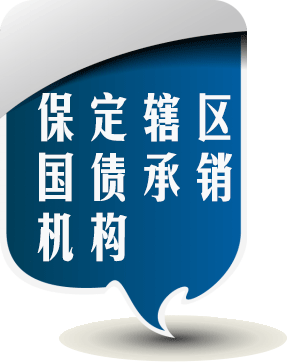
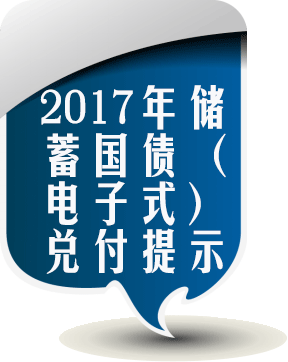
complete

Changed region(s): [[0.125, 0.2431, 0.4688, 0.7597], [0.6562, 0.2127, 0.8125, 0.7597], [0.5, 0.2127, 0.625, 0.7597]]

diff --git a/css/style.css b/css/style.css
@@ -24,7 +24,7 @@ div{ transition:all 0.8s linear 0.5s; -webkit-transition:all 0.8s linear 0.5s;}
 .page_guide{ position:absolute; z-index:99; width:100%; height:100%;}
 .page_load{ position:absolute; z-index:2; width:100%; height:100%; background:url(../img/load_bg.jpg) no-repeat; background-size:cover;}
 .page_load_info{margin-top:50%;text-align: center;}
-.page_load_info>img{
+.page_load_info img{
 	width: 100px;
 	animation: spin 2s linear infinite;
 }
@@ -32,7 +32,7 @@ div{ transition:all 0.8s linear 0.5s; -webkit-transition:all 0.8s linear 0.5s;}
 	0% { transform: rotate(0deg); }
 	100% { transform: rotate(360deg); }
 }
-.page_load_num{ position:absolute; top:50%; left:50%; width:100%; transform:translate(-50%,-50%); text-align:center; font-size:44px; color:#000; font-family:Arial;}
+.page_load_num{ position:absolute; top:40%; left:50%; width:100%; transform:translate(-50%,-50%); text-align:center; font-size:44px; color:#000; font-family:Arial;}
 .page_smArea{ position:absolute; z-index:3; opacity:0; width:100%; height:100%; transition:0.5s linear 0s; background:url(../images/page_load.jpg) no-repeat; background-size:cover;}
 .page_smArea .tg_btn{ position:absolute; right:5.6%; top:3.9%; width:11.47%;}
 .page_smArea .tx{ position:absolute; top:16.6%; left:31.33%; width:37.2%; transition:0.5s linear 0s;}
@@ -206,9 +206,10 @@ div{ transition:all 0.8s linear 0.5s; -webkit-transition:all 0.8s linear 0.5s;}
 }
 .pg5>div.wri04>p{
 	color: black;
-	top:26%;
+	top:34%;
 	width: 60%;
 	right: 10%;
+	font-size: .8rem;
 }
 .pg-table{
 	border:1px solid #fff;
@@ -237,8 +238,13 @@ div{ transition:all 0.8s linear 0.5s; -webkit-transition:all 0.8s linear 0.5s;}
 	/*top: 0;
 	right: auto;
 	left: 0;*/
-	width: 36%;
+	width: 100%;
+	padding-top: 20px;
 	position: static;
+	text-align: right;
+}
+.pg6>div.wri04>img{
+	width: 36%;
 }
 
 .pg6>div.wri04>p{
@@ -249,26 +255,33 @@ div{ transition:all 0.8s linear 0.5s; -webkit-transition:all 0.8s linear 0.5s;}
 	left: 20%;
 }
 .pg7>div.wri01{
-	top:34%;
-	width: 98%;
+	/*top:34%;
 	left: auto;
-	right: 0;
+	right: 0;*/
+	width: 100%;
+	position: static;
 
 }
 .pg7>div.wri04{
-	top: 6%;
-	width: 40%;
+	/*top: 6%;
 	right: 0;
-	left: auto;
+	left: auto;*/
+	width: 100%;
+	position: static;
+	padding-top: 20px;
+	text-align: left;
 }
-.pg7>div.wri04>p{
+.pg7>div.wri04>img{
+	width: 40%;
+}
+/*.pg7>div.wri04>p{
 	font-weight: bold;
 	top:24%;
 	width: 66%;
 	left: auto;
 	right: 20%;
 	transform: rotate(13deg);
-}
+}*/
 
 .pg8>div.wri01>p{
 	color: black;

diff --git a/index.php b/index.php
@@ -77,8 +77,13 @@
 	<div class="page_guide">
         <div class="page_load">
             <div class="page_load_info">
-                <img src="img/load.jpg">
-                <div class="page_load_num" id="page_load_num">0%</div>
+
+                <div class="page_load_num" >
+					<div>
+						<img src="img/load.jpg">
+					</div>
+					<div id="page_load_num">0%</div>
+				</div>
             </div>
         </div>
     </div>
@@ -109,20 +114,10 @@
 			<div class="sec sec3 pg3">
 				<div class="posDiv wri wri01">
 					<img src="img/note7.png" width="100%">
-					<!--<p>
-							中国工商银行股份有限公司 <br>
-							中国农业银行股份有限公司<br>
-							中国银行股份有限公司<br>
-							中国建设银行股份有限公司<br>
-							交通银行股份有限公司<br>
-							中信银行股份有限公司<br>
-							中国光大银行股份有限公司
-					</p>-->
 				</div>
 				<div class="posDiv r02"><img src="img/man5.png" width="100%"></div>
 				<div class="posDiv wri wri04">
 					<img src="img/message3f.png" width="100%">
-<!--					<p>保定辖区<br>国债承销机构</p>-->
 				</div>
 				<div class="btnBox"><img src="img/page_btn.png" width="100%"></div>
 			</div>
@@ -132,19 +127,9 @@
 				<div class="posDiv r01"><img src="img/man6.png" width="100%"></div>
 				<div class="posDiv wri wri01">
 					<img src="img/note8.png" width="100%">
-					<!--<p>
-						华夏银行股份有限公司 <br>
-						上海浦东发展银行股份有限公司 <br>
-						兴业银行股份有限公司 <br>
-						北京银行股份有限公司 <br>
-						天津银行股份有限公司 <br>
-						河北银行股份有限公司 <br>
-						中国邮政储蓄银行股份有限公司
-					</p>-->
 				</div>
 				<div class="posDiv wri wri04">
 					<img src="img/message4f.png" width="100%">
-<!--					<p>保定辖区<br>国债承销机构</p>-->
 				</div>
 				<div class="btnBox"><img src="img/page_btn.png" width="100%"></div>
 			</div>
@@ -167,10 +152,7 @@
         </div>
 		<div class="section">
 			<div class="sec sec3 pg6">
-				<div class="posDiv wri wri04">
-					<img src="img/message7f.png" width="100%">
-					<!--					<p>2017年储蓄国债（电子式）兑付提示</p>-->
-				</div>
+
 				<div class="posDiv wri wri01">
 					<table class="pg-table">
 						<tr>
@@ -240,6 +222,9 @@
 							<td>5.32%</td>
 						</tr>
 					</table>
+				</div>
+				<div class="posDiv wri wri04">
+					<img src="img/message7f.png" width="100%">
 				</div>
 				<div class="posDiv r01"><img src="img/man6.png" width="100%"></div>
 				<div class="btnBox"><img src="img/page_btn.png" width="100%"></div>
@@ -317,11 +302,10 @@
 						</tr>
 					</table>
 				</div>
-				<div class="posDiv r02"><img src="img/man3.png" width="100%"></div>
 				<div class="posDiv wri wri04">
 					<img src="img/message8f.png" width="100%">
-<!--					<p>2017年储蓄国债（凭证式）兑付提示</p>-->
 				</div>
+				<div class="posDiv r02"><img src="img/man3.png" width="100%"></div>
 				<div class="btnBox"><img src="img/page_btn.png" width="100%"></div>
 			</div>
 		</div>
